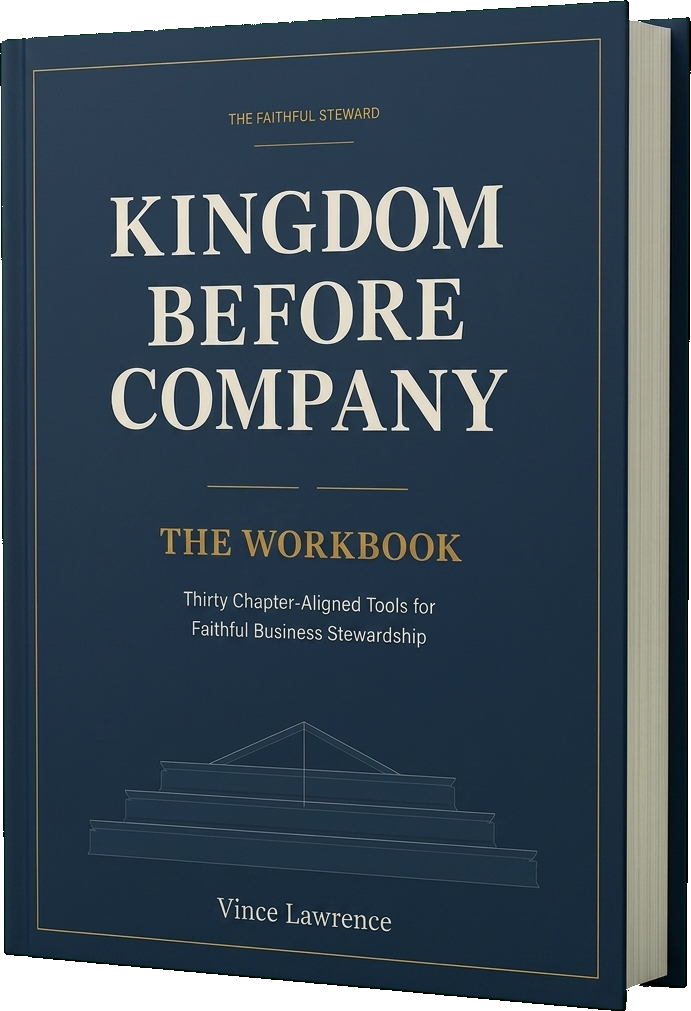
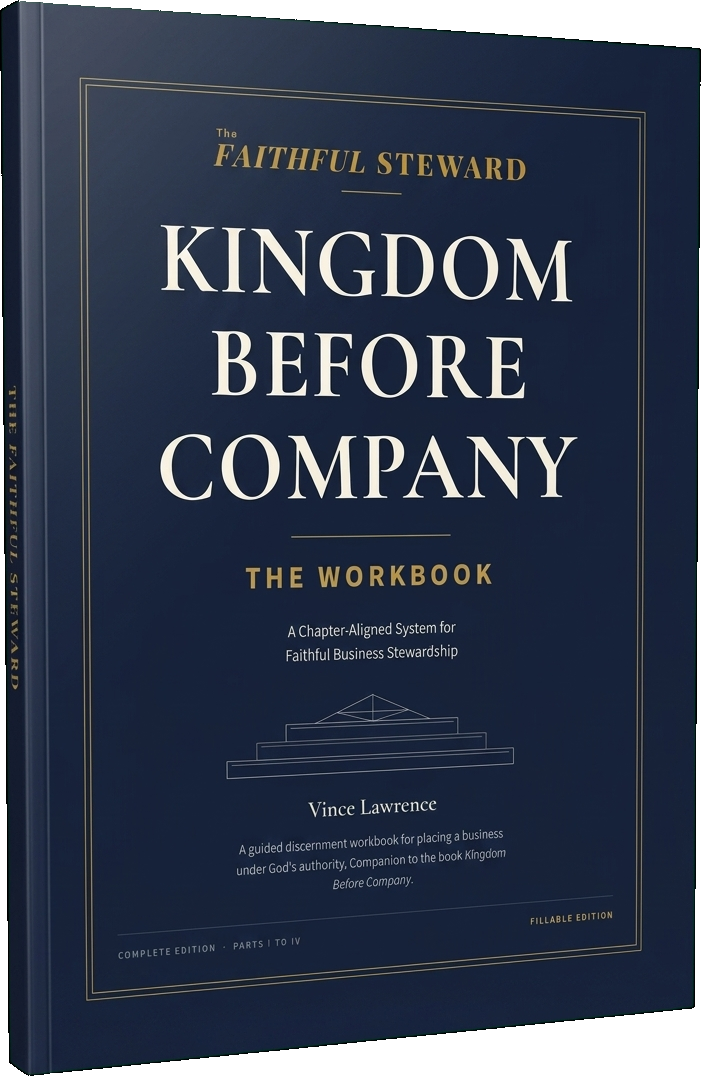
## New Workbook Cover → 3D on the Workbook Page
Turned your updated **Fillable Edition** workbook cover into an angled **3D render** and placed it on the Workbook page hero. Generated on a green screen and keyed to a clean transparent PNG/WebP (`/public/workbook-3d-cover.png` / `.webp`, ~51 KB) so it floats on the cream section with a soft drop shadow, matching the Book page's 3D paperback treatment. Verified on-screen; build compiles clean.

Reminder: this is the Emergent preview only — use **Save to GitHub → Vercel** to push it live to faithfulstew.vercel.app.

- Next Action Items:
  - **Refresh Share Card**: Regenerate the Workbook OG/social image so it uses this new Fillable Edition 3D cover
  - **Turn On Checkout**: Add your Stripe Payment Link so the workbook CTA becomes a real "Buy · $27"
  - **Real Quotes**: Send a few real early-reader endorsements to replace the placeholders in the trust section
  - **Go Live Links**: Drop your Amazon paperback/Kindle URLs into `src/lib/site.js` so the Book buttons flip from Coming Soon to Buy

diff --git a/src/pages/Workbook.jsx b/src/pages/Workbook.jsx
@@ -67,8 +67,12 @@ export default function Workbook() {
             transition={{ duration: 0.8, ease: EASE }}
             className="lg:col-span-5 lg:sticky lg:top-32"
           >
-            <div className="relative aspect-[17/22] max-w-sm mx-auto overflow-hidden shadow-[0_40px_80px_-30px_rgba(0,0,0,0.35)]">
-              <img src={WORKBOOK.cover} alt={`${WORKBOOK.title} cover`} className="w-full h-full object-cover" />
+            <div className="relative max-w-sm mx-auto">
+              <img
+                src="/workbook-3d-cover.webp"
+                alt={`${WORKBOOK.title} cover`}
+                className="w-full h-auto drop-shadow-[0_40px_60px_rgba(0,0,0,0.35)]"
+              />
             </div>
           </motion.div>
 
